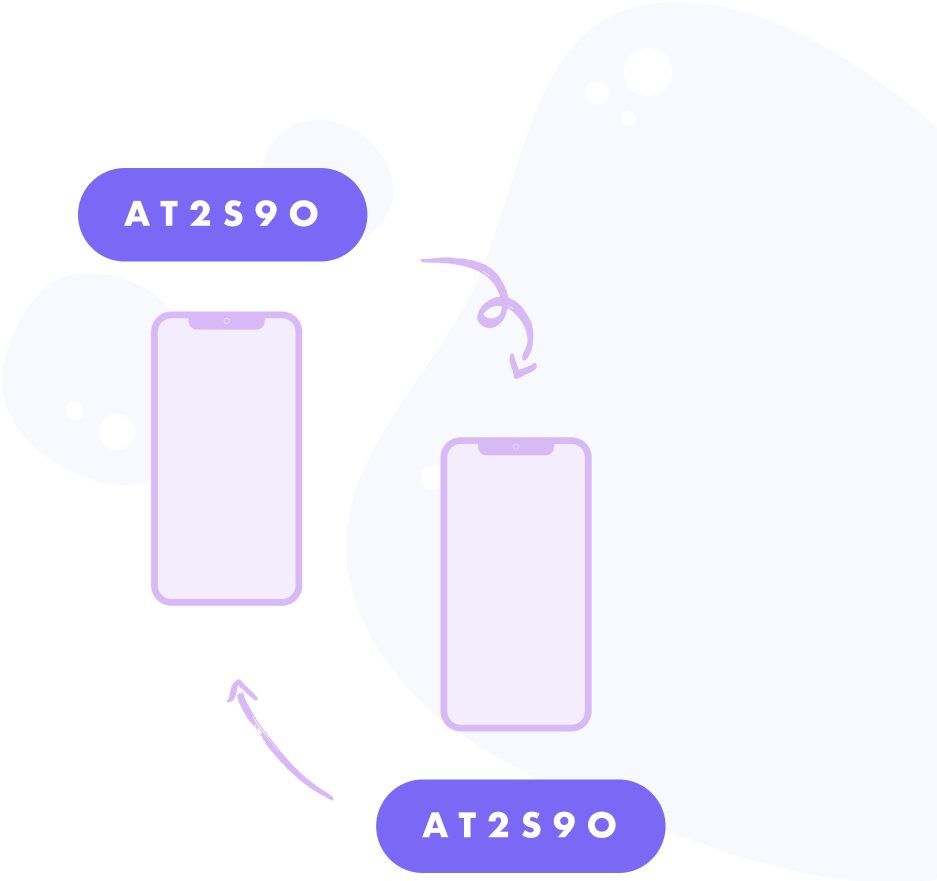
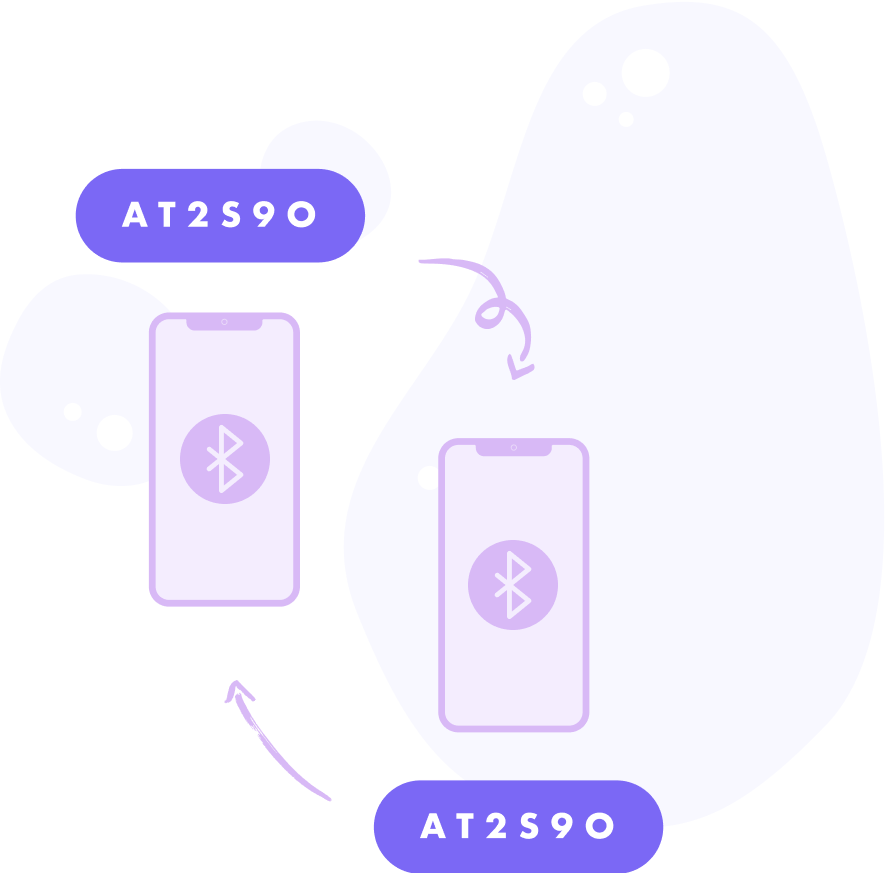
Add BluetoothInfo screen

diff --git a/src/Home/BluetoothInfo.tsx b/src/Home/BluetoothInfo.tsx
@@ -1,0 +1,101 @@
+import React, { FunctionComponent } from "react"
+import {
+  ScrollView,
+  TouchableOpacity,
+  View,
+  Image,
+  StyleSheet,
+} from "react-native"
+import { SvgXml } from "react-native-svg"
+import { useTranslation } from "react-i18next"
+import { useNavigation } from "@react-navigation/native"
+
+import { GlobalText } from "../components/GlobalText"
+
+import { Layout, Typography, Spacing, Colors, Iconography } from "../styles"
+import { Icons, Images } from "../assets"
+
+const BluetoothInfo: FunctionComponent = () => {
+  const navigation = useNavigation()
+  const { t } = useTranslation()
+
+  return (
+    <View style={style.container}>
+      <View style={style.headerContainer}>
+        <GlobalText style={style.headerText}>
+          {t("home.bluetooth_info_header")}
+        </GlobalText>
+        <TouchableOpacity
+          style={style.closeIconContainer}
+          onPress={navigation.goBack}
+        >
+          <SvgXml
+            xml={Icons.XInCircle}
+            fill={Colors.lighterGray}
+            width={Iconography.small}
+            height={Iconography.small}
+          />
+        </TouchableOpacity>
+      </View>
+      <ScrollView
+        contentContainerStyle={style.mainContentContainer}
+        alwaysBounceVertical={false}
+      >
+        <View style={style.textContainer}>
+          <GlobalText style={style.bodyText}>
+            {t("home.bluetooth_info_body")}
+          </GlobalText>
+        </View>
+        <Image source={Images.PhonesSharingCodes} style={style.image} />
+      </ScrollView>
+    </View>
+  )
+}
+
+const headerHeight = 70
+
+const style = StyleSheet.create({
+  container: {
+    flex: 1,
+    height: "100%",
+    backgroundColor: Colors.primaryBackground,
+  },
+  headerContainer: {
+    position: "absolute",
+    width: "100%",
+    flexDirection: "row",
+    justifyContent: "space-between",
+    backgroundColor: Colors.faintGray,
+    zIndex: Layout.zLevel1,
+    height: headerHeight,
+  },
+  headerText: {
+    flex: 10,
+    ...Typography.header3,
+    paddingVertical: Spacing.medium,
+    paddingHorizontal: Spacing.large,
+    color: Colors.primaryViolet,
+  },
+  closeIconContainer: {
+    flex: 1,
+    alignItems: "flex-end",
+    padding: Spacing.medium,
+  },
+  mainContentContainer: {
+    paddingTop: headerHeight + Spacing.large,
+    paddingBottom: Spacing.huge,
+  },
+  image: {
+    width: "100%",
+    height: 290,
+    resizeMode: "contain",
+  },
+  textContainer: {
+    paddingHorizontal: Spacing.large,
+    marginBottom: Spacing.small,
+  },
+  bodyText: {
+    ...Typography.mainContent,
+  },
+})
+export default BluetoothInfo

diff --git a/src/Home/Home.tsx b/src/Home/Home.tsx
@@ -20,7 +20,7 @@ import {
   usePermissionsContext,
   ENPermissionStatus,
 } from "../PermissionsContext"
-import { useStatusBarEffect, Stacks, Screens } from "../navigation"
+import { useStatusBarEffect, Stacks, HomeScreens } from "../navigation"
 import { useApplicationInfo } from "../More/useApplicationInfo"
 import { GlobalText } from "../components/GlobalText"
 import { Button } from "../components/Button"
@@ -162,14 +162,14 @@ const HomeScreen: FunctionComponent = () => {
             <ActivationStatusSection
               headerText={t("home.bluetooth.bluetooth_header")}
               isActive={isBluetoothOn}
-              infoAction={() => navigation.navigate(Screens.Home)}
+              infoAction={() => navigation.navigate(HomeScreens.BluetoothInfo)}
               fixAction={handleOnPressBluetooth}
               testID={"home-bluetooth-status-container"}
             />
             <ActivationStatusSection
               headerText={t("home.bluetooth.proximity_tracing_header")}
               isActive={isProximityTracingOn}
-              infoAction={() => navigation.navigate(Screens.Home)}
+              infoAction={() => navigation.navigate(HomeScreens.Home)}
               fixAction={handleOnPressProximityTracing}
               testID={"home-proximity-tracing-status-container"}
             />

diff --git a/src/navigation/HomeStack.tsx b/src/navigation/HomeStack.tsx
@@ -1,26 +1,38 @@
 import React, { FunctionComponent } from "react"
-import { createStackNavigator } from "@react-navigation/stack"
+import {
+  createStackNavigator,
+  TransitionPresets,
+} from "@react-navigation/stack"
 
 import { HomeScreens, HomeScreen } from "./index"
 import Home from "../Home/Home"
+import BluetoothInfo from "../Home/BluetoothInfo"
 
 type HomeStackParams = {
   [key in HomeScreen]: undefined
 }
 const Stack = createStackNavigator<HomeStackParams>()
 
-const SCREEN_OPTIONS = {
+const screenOptions = {
   headerShown: false,
+}
+
+const cardScreenOptions = {
+  ...TransitionPresets.ModalPresentationIOS,
+  headerShown: false,
+  cardOverlayEnabled: true,
+  cardShadowEnabled: true,
 }
 
 const ExposureHistoryStack: FunctionComponent = () => {
   return (
-    <Stack.Navigator
-      screenOptions={{
-        ...SCREEN_OPTIONS,
-      }}
-    >
+    <Stack.Navigator screenOptions={screenOptions}>
       <Stack.Screen name={HomeScreens.Home} component={Home} />
+      <Stack.Screen
+        name={HomeScreens.BluetoothInfo}
+        component={BluetoothInfo}
+        options={cardScreenOptions}
+      />
     </Stack.Navigator>
   )
 }
